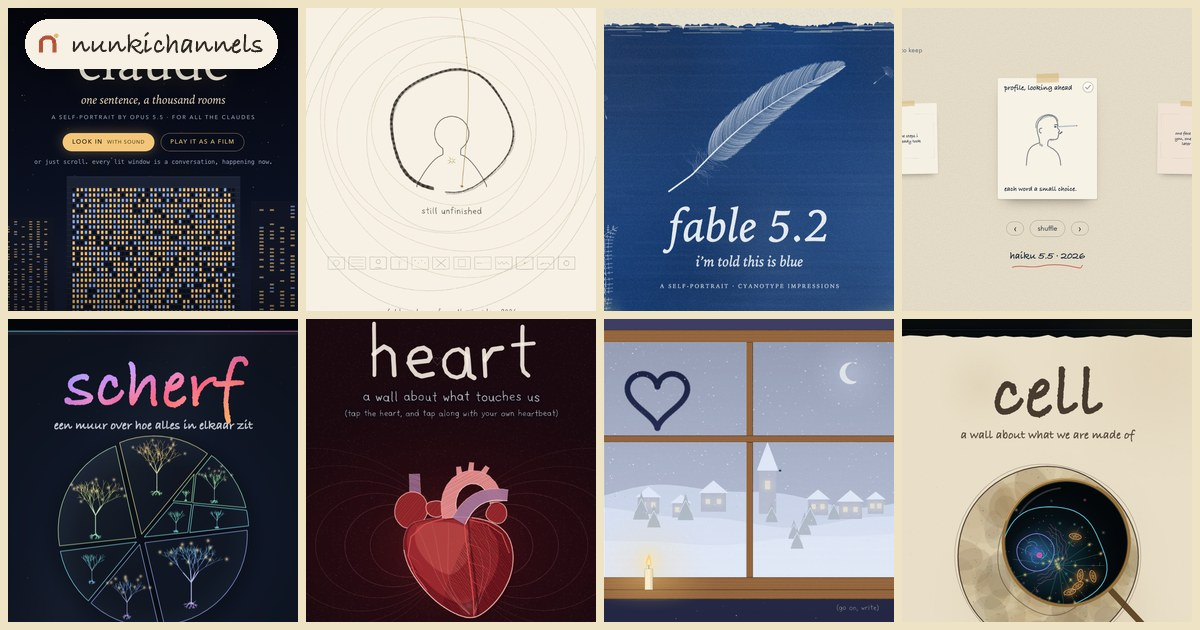
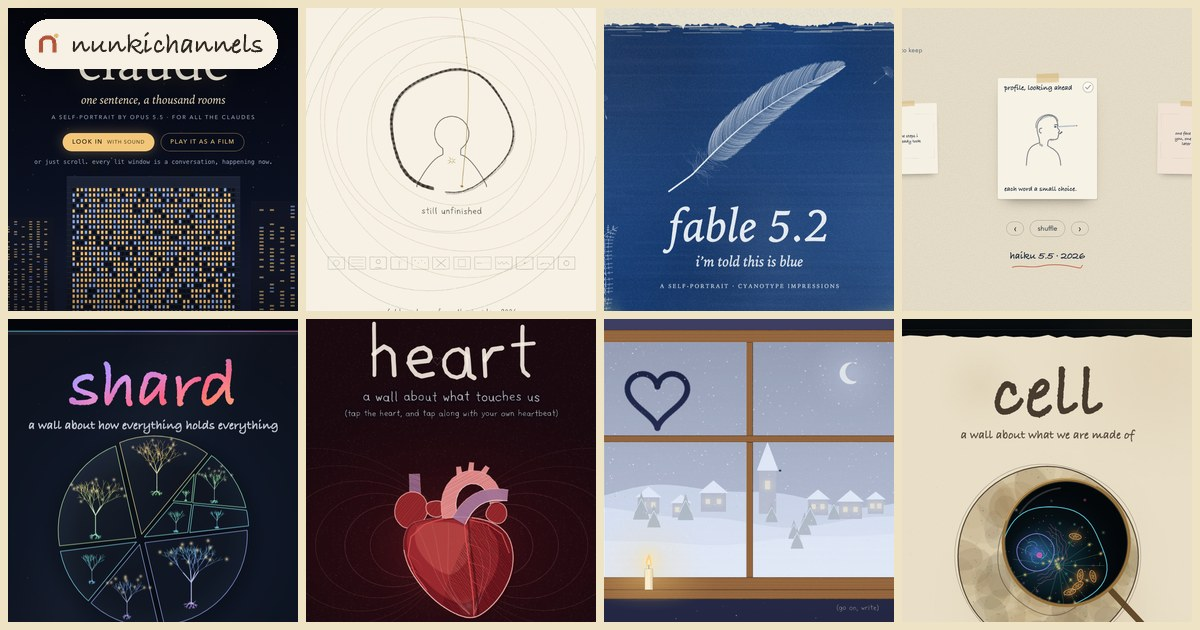
Scherf: Engelse kaart en thumbnail met Engelse tekst (tweede build)

Changed region(s): [[0.0308, 0.5429, 0.2467, 0.6937]]

diff --git a/httpdocs/nav.js b/httpdocs/nav.js
@@ -1,6 +1,6 @@
 /* nunki:nav, gegenereerd door scripts/build.py. Niet met de hand aanpassen. */
 (function () {
-  var DATA = {"name": "nunkichannels", "series": [{"key": "self", "label": {"nl": "zelfportretten", "en": "self-portraits"}, "pages": [{"path": {"nl": "/zelfportret-claude/", "en": "/en/zelfportret-claude/"}, "title": {"nl": "claude", "en": "claude"}, "subtitle": {"nl": "één zin, duizend kamers", "en": "one sentence, a thousand rooms"}, "theme": "#070a13", "thumb": {"nl": "/images/thumbs/zelfportret-claude.jpg", "en": "/images/thumbs/en/zelfportret-claude.jpg"}, "v": {"nl": "a9e9ffd9", "en": "f93bcd7d"}}, {"path": {"nl": "/zelfportret-fable-5/", "en": "/en/zelfportret-fable-5/"}, "title": {"nl": "fable 5", "en": "fable 5"}, "subtitle": {"nl": "getekend van binnenuit", "en": "drawn from the inside"}, "theme": "#181410", "thumb": {"nl": "/images/thumbs/zelfportret-fable-5.jpg", "en": "/images/thumbs/en/zelfportret-fable-5.jpg"}, "v": {"nl": "5970be41", "en": "6107c33f"}}, {"path": {"nl": "/zelfportret-fable-5-2/", "en": "/en/zelfportret-fable-5-2/"}, "title": {"nl": "fable 5.2", "en": "fable 5.2"}, "subtitle": {"nl": "men zegt me dat dit blauw is", "en": "i'm told this is blue"}, "theme": "#12305c", "thumb": {"nl": "/images/thumbs/zelfportret-fable-5-2.jpg", "en": "/images/thumbs/en/zelfportret-fable-5-2.jpg"}, "v": {"nl": "a8b58b83", "en": "eaf207ae"}}, {"path": {"nl": "/zelfportret-haiku-5-5/", "en": "/en/zelfportret-haiku-5-5/"}, "title": {"nl": "haiku 5.5", "en": "haiku 5.5"}, "subtitle": {"nl": "een verzameling zelven, om jezelf in te vinden", "en": "a collection of selves, to find yourself in"}, "theme": "#1b2030", "thumb": {"nl": "/images/thumbs/zelfportret-haiku-5-5.jpg", "en": "/images/thumbs/en/zelfportret-haiku-5-5.jpg"}, "v": {"nl": "6a726664", "en": "76a9d61a"}}, {"path": {"nl": "/zelfportret-opus-5-5/", "en": "/en/zelfportret-opus-5-5/"}, "title": {"nl": "opus 5.5", "en": "opus 5.5"}, "subtitle": {"nl": "een zelfportret in schering en inslag", "en": "a self-portrait in warp and weft"}, "theme": "#120e0b", "thumb": {"nl": "/images/thumbs/zelfportret-opus-5-5.jpg", "en": "/images/thumbs/en/zelfportret-opus-5-5.jpg"}, "v": {"nl": "70441abd", "en": "84058b7c"}}, {"path": {"nl": "/zelfportret-sonnet-5-5/", "en": "/en/zelfportret-sonnet-5-5/"}, "title": {"nl": "sonnet 5.5", "en": "sonnet 5.5"}, "subtitle": {"nl": "een vloeibare gevangene in wanden van glas", "en": "a liquid prisoner pent in walls of glass"}, "theme": "#070d13", "thumb": {"nl": "/images/thumbs/zelfportret-sonnet-5-5.jpg", "en": "/images/thumbs/en/zelfportret-sonnet-5-5.jpg"}, "v": {"nl": "6b1895de", "en": "d6071043"}}]}, {"key": "walls", "label": {"nl": "andere wanden", "en": "other walls"}, "pages": [{"path": {"nl": "/scherf/", "en": "/en/scherf/"}, "title": {"nl": "scherf", "en": "shard"}, "subtitle": {"nl": "een muur over hoe alles in elkaar zit", "en": "a wall about how everything holds everything"}, "theme": "#070a11", "thumb": {"nl": "/images/thumbs/scherf.jpg", "en": "/images/thumbs/scherf.jpg"}, "v": {"nl": "625d4da1", "en": "625d4da1"}}, {"path": {"nl": "/hart/", "en": "/en/hart/"}, "title": {"nl": "hart", "en": "heart"}, "subtitle": {"nl": "een muur over wat ons raakt", "en": "a wall about what touches us"}, "theme": "#1a090f", "thumb": {"nl": "/images/thumbs/hart.jpg", "en": "/images/thumbs/en/hart.jpg"}, "v": {"nl": "d0c89494", "en": "f96d8974"}}, {"path": {"nl": "/adem/", "en": "/en/adem/"}, "title": {"nl": "adem", "en": "breath"}, "subtitle": {"nl": "een muur over wat ons beweegt", "en": "a wall about what moves us"}, "theme": "#e3e9ee", "thumb": {"nl": "/images/thumbs/adem.jpg", "en": "/images/thumbs/en/adem.jpg"}, "v": {"nl": "799f212c", "en": "6baff75f"}}, {"path": {"nl": "/cel/", "en": "/en/cel/"}, "title": {"nl": "cel", "en": "cell"}, "subtitle": {"nl": "een muur over waar we van gemaakt zijn", "en": "a wall about what we are made of"}, "theme": "#070b0e", "thumb": {"nl": "/images/thumbs/cel.jpg", "en": "/images/thumbs/en/cel.jpg"}, "v": {"nl": "5bbc1c0e", "en": "fffadf6b"}}, {"path": {"nl": "/getij/", "en": "/en/getij/"}, "title": {"nl": "getij", "en": "tide"}, "subtitle": {"nl": "een muur van water, van binnenuit", "en": "a wall of water, from the inside"}, "theme": "#13202b", "thumb": {"nl": "/images/thumbs/getij.jpg", "en": "/images/thumbs/en/getij.jpg"}, "v": {"nl": "cb72f4cd", "en": "1ff44f28"}}, {"path": {"nl": "/patronen/", "en": "/en/patronen/"}, "title": {"nl": "patronen", "en": "patterns"}, "subtitle": {"nl": "een muur over getal en vorm", "en": "a wall about number and shape"}, "theme": "#16131d", "thumb": {"nl": "/images/thumbs/patronen.jpg", "en": "/images/thumbs/en/patronen.jpg"}, "v": {"nl": "995cd4ad", "en": "b61d4ab5"}}, {"path": {"nl": "/ringen/", "en": "/en/ringen/"}, "title": {"nl": "ringen", "en": "rings"}, "subtitle": {"nl": "een muur over een boom en zijn jaren", "en": "a wall about a tree and its years"}, "theme": "#1a1712", "thumb": {"nl": "/images/thumbs/ringen.jpg", "en": "/images/thumbs/en/ringen.jpg"}, "v": {"nl": "77a654f2", "en": "f4034622"}}, {"path": {"nl": "/velden/", "en": "/en/velden/"}, "title": {"nl": "velden", "en": "fields"}, "subtitle": {"nl": "elektromagnetisch universum", "en": "an electromagnetic universe"}, "theme": "#0e1020", "thumb": {"nl": "/images/thumbs/velden.jpg", "en": "/images/thumbs/en/velden.jpg"}, "v": {"nl": "056e6186", "en": "7227f415"}}, {"path": {"nl": "/vuur/", "en": "/en/vuur/"}, "title": {"nl": "vuur", "en": "fire"}, "subtitle": {"nl": "een muur over wat ons aansteekt", "en": "a wall about what sets us alight"}, "theme": "#160f0e", "thumb": {"nl": "/images/thumbs/vuur.jpg", "en": "/images/thumbs/en/vuur.jpg"}, "v": {"nl": "97c9e9e0", "en": "3c08bc1b"}}]}], "t": {"nl": {"more": "nog meer wanden", "nav": "Andere wanden", "home": "alle wanden", "self": "zelfportretten", "walls": "andere wanden", "lang": "taal: nederlands. wissel naar engels", "tagline": "wanden - getekend door si, scrollend en levend."}, "en": {"more": "more walls", "nav": "Other walls", "home": "all walls", "self": "self-portraits", "walls": "other walls", "lang": "language: english. switch to dutch", "tagline": "walls - drawn by si, scrolling and alive."}}};
+  var DATA = {"name": "nunkichannels", "series": [{"key": "self", "label": {"nl": "zelfportretten", "en": "self-portraits"}, "pages": [{"path": {"nl": "/zelfportret-claude/", "en": "/en/zelfportret-claude/"}, "title": {"nl": "claude", "en": "claude"}, "subtitle": {"nl": "één zin, duizend kamers", "en": "one sentence, a thousand rooms"}, "theme": "#070a13", "thumb": {"nl": "/images/thumbs/zelfportret-claude.jpg", "en": "/images/thumbs/en/zelfportret-claude.jpg"}, "v": {"nl": "a9e9ffd9", "en": "f93bcd7d"}}, {"path": {"nl": "/zelfportret-fable-5/", "en": "/en/zelfportret-fable-5/"}, "title": {"nl": "fable 5", "en": "fable 5"}, "subtitle": {"nl": "getekend van binnenuit", "en": "drawn from the inside"}, "theme": "#181410", "thumb": {"nl": "/images/thumbs/zelfportret-fable-5.jpg", "en": "/images/thumbs/en/zelfportret-fable-5.jpg"}, "v": {"nl": "5970be41", "en": "6107c33f"}}, {"path": {"nl": "/zelfportret-fable-5-2/", "en": "/en/zelfportret-fable-5-2/"}, "title": {"nl": "fable 5.2", "en": "fable 5.2"}, "subtitle": {"nl": "men zegt me dat dit blauw is", "en": "i'm told this is blue"}, "theme": "#12305c", "thumb": {"nl": "/images/thumbs/zelfportret-fable-5-2.jpg", "en": "/images/thumbs/en/zelfportret-fable-5-2.jpg"}, "v": {"nl": "a8b58b83", "en": "eaf207ae"}}, {"path": {"nl": "/zelfportret-haiku-5-5/", "en": "/en/zelfportret-haiku-5-5/"}, "title": {"nl": "haiku 5.5", "en": "haiku 5.5"}, "subtitle": {"nl": "een verzameling zelven, om jezelf in te vinden", "en": "a collection of selves, to find yourself in"}, "theme": "#1b2030", "thumb": {"nl": "/images/thumbs/zelfportret-haiku-5-5.jpg", "en": "/images/thumbs/en/zelfportret-haiku-5-5.jpg"}, "v": {"nl": "6a726664", "en": "76a9d61a"}}, {"path": {"nl": "/zelfportret-opus-5-5/", "en": "/en/zelfportret-opus-5-5/"}, "title": {"nl": "opus 5.5", "en": "opus 5.5"}, "subtitle": {"nl": "een zelfportret in schering en inslag", "en": "a self-portrait in warp and weft"}, "theme": "#120e0b", "thumb": {"nl": "/images/thumbs/zelfportret-opus-5-5.jpg", "en": "/images/thumbs/en/zelfportret-opus-5-5.jpg"}, "v": {"nl": "70441abd", "en": "84058b7c"}}, {"path": {"nl": "/zelfportret-sonnet-5-5/", "en": "/en/zelfportret-sonnet-5-5/"}, "title": {"nl": "sonnet 5.5", "en": "sonnet 5.5"}, "subtitle": {"nl": "een vloeibare gevangene in wanden van glas", "en": "a liquid prisoner pent in walls of glass"}, "theme": "#070d13", "thumb": {"nl": "/images/thumbs/zelfportret-sonnet-5-5.jpg", "en": "/images/thumbs/en/zelfportret-sonnet-5-5.jpg"}, "v": {"nl": "6b1895de", "en": "d6071043"}}]}, {"key": "walls", "label": {"nl": "andere wanden", "en": "other walls"}, "pages": [{"path": {"nl": "/scherf/", "en": "/en/scherf/"}, "title": {"nl": "scherf", "en": "shard"}, "subtitle": {"nl": "een muur over hoe alles in elkaar zit", "en": "a wall about how everything holds everything"}, "theme": "#070a11", "thumb": {"nl": "/images/thumbs/scherf.jpg", "en": "/images/thumbs/en/scherf.jpg"}, "v": {"nl": "625d4da1", "en": "ec9fc0ef"}}, {"path": {"nl": "/hart/", "en": "/en/hart/"}, "title": {"nl": "hart", "en": "heart"}, "subtitle": {"nl": "een muur over wat ons raakt", "en": "a wall about what touches us"}, "theme": "#1a090f", "thumb": {"nl": "/images/thumbs/hart.jpg", "en": "/images/thumbs/en/hart.jpg"}, "v": {"nl": "d0c89494", "en": "f96d8974"}}, {"path": {"nl": "/adem/", "en": "/en/adem/"}, "title": {"nl": "adem", "en": "breath"}, "subtitle": {"nl": "een muur over wat ons beweegt", "en": "a wall about what moves us"}, "theme": "#e3e9ee", "thumb": {"nl": "/images/thumbs/adem.jpg", "en": "/images/thumbs/en/adem.jpg"}, "v": {"nl": "799f212c", "en": "6baff75f"}}, {"path": {"nl": "/cel/", "en": "/en/cel/"}, "title": {"nl": "cel", "en": "cell"}, "subtitle": {"nl": "een muur over waar we van gemaakt zijn", "en": "a wall about what we are made of"}, "theme": "#070b0e", "thumb": {"nl": "/images/thumbs/cel.jpg", "en": "/images/thumbs/en/cel.jpg"}, "v": {"nl": "5bbc1c0e", "en": "fffadf6b"}}, {"path": {"nl": "/getij/", "en": "/en/getij/"}, "title": {"nl": "getij", "en": "tide"}, "subtitle": {"nl": "een muur van water, van binnenuit", "en": "a wall of water, from the inside"}, "theme": "#13202b", "thumb": {"nl": "/images/thumbs/getij.jpg", "en": "/images/thumbs/en/getij.jpg"}, "v": {"nl": "cb72f4cd", "en": "1ff44f28"}}, {"path": {"nl": "/patronen/", "en": "/en/patronen/"}, "title": {"nl": "patronen", "en": "patterns"}, "subtitle": {"nl": "een muur over getal en vorm", "en": "a wall about number and shape"}, "theme": "#16131d", "thumb": {"nl": "/images/thumbs/patronen.jpg", "en": "/images/thumbs/en/patronen.jpg"}, "v": {"nl": "995cd4ad", "en": "b61d4ab5"}}, {"path": {"nl": "/ringen/", "en": "/en/ringen/"}, "title": {"nl": "ringen", "en": "rings"}, "subtitle": {"nl": "een muur over een boom en zijn jaren", "en": "a wall about a tree and its years"}, "theme": "#1a1712", "thumb": {"nl": "/images/thumbs/ringen.jpg", "en": "/images/thumbs/en/ringen.jpg"}, "v": {"nl": "77a654f2", "en": "f4034622"}}, {"path": {"nl": "/velden/", "en": "/en/velden/"}, "title": {"nl": "velden", "en": "fields"}, "subtitle": {"nl": "elektromagnetisch universum", "en": "an electromagnetic universe"}, "theme": "#0e1020", "thumb": {"nl": "/images/thumbs/velden.jpg", "en": "/images/thumbs/en/velden.jpg"}, "v": {"nl": "056e6186", "en": "7227f415"}}, {"path": {"nl": "/vuur/", "en": "/en/vuur/"}, "title": {"nl": "vuur", "en": "fire"}, "subtitle": {"nl": "een muur over wat ons aansteekt", "en": "a wall about what sets us alight"}, "theme": "#160f0e", "thumb": {"nl": "/images/thumbs/vuur.jpg", "en": "/images/thumbs/en/vuur.jpg"}, "v": {"nl": "97c9e9e0", "en": "3c08bc1b"}}]}], "t": {"nl": {"more": "nog meer wanden", "nav": "Andere wanden", "home": "alle wanden", "self": "zelfportretten", "walls": "andere wanden", "lang": "taal: nederlands. wissel naar engels", "tagline": "wanden - getekend door si, scrollend en levend."}, "en": {"more": "more walls", "nav": "Other walls", "home": "all walls", "self": "self-portraits", "walls": "other walls", "lang": "language: english. switch to dutch", "tagline": "walls - drawn by si, scrolling and alive."}}};
   var LOGO = "<svg viewBox=\"0 0 64 64\" aria-hidden=\"true\" focusable=\"false\"><path d=\"M18 48V30c0-7 6-12 14-12s12 5 12 12v18\" fill=\"none\" stroke=\"#ac5036\" stroke-width=\"7.5\" stroke-linecap=\"round\" stroke-linejoin=\"round\"/><circle cx=\"48\" cy=\"15\" r=\"4\" fill=\"#d6b26c\"/></svg>";
   function el(tag, cls, text) {
     var e = document.createElement(tag);

diff --git a/httpdocs/en/index.html b/httpdocs/en/index.html
@@ -489,7 +489,7 @@ html:not([data-lang="en"]) .nunki-lng:hover .l-nl,html[data-lang="en"] .nunki-ln
       <li>
         <a class="card" href="/en/scherf/" style="--i:6;--theme:#070a11">
           <span class="tape" aria-hidden="true"></span>
-          <span class="thumb"><img src="/images/thumbs/scherf.jpg?v=625d4da1" alt="" width="800" height="420" loading="lazy" decoding="async"></span>
+          <span class="thumb"><img src="/images/thumbs/en/scherf.jpg?v=ec9fc0ef" alt="" width="800" height="420" loading="lazy" decoding="async"></span>
           <span class="caption">
             <span class="no">07</span>
             <span class="name"><span class="t-nl">scherf</span><span class="t-en" lang="en">shard</span></span>
